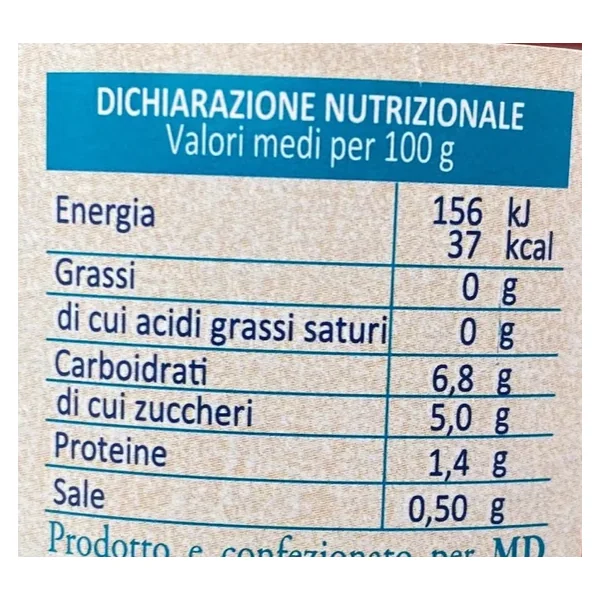
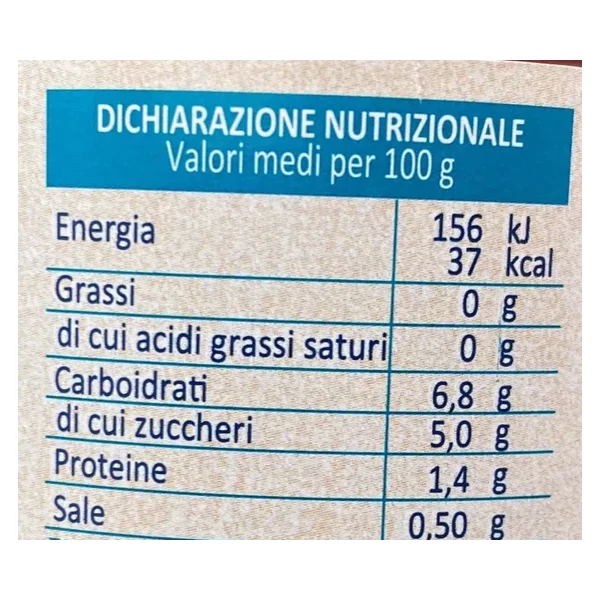
Marche private ricondotte alle linee APA
- prodotti con marchio della catena di provenienza delle foto ora a
  marchio APA, APA Selezione, Forno APA e Macelleria APA
- tolta dalle tabelle nutrizionali la dicitura del produttore per conto
  della catena
- documentazione senza riferimenti alla fonte delle foto

diff --git a/lib/mock/products.ts b/lib/mock/products.ts
@@ -37,7 +37,7 @@ export const products: Product[] = [
   product({
     id: "uova-bio-6pz",
     name: "Uova fresche biologiche",
-    brand: "MD",
+    brand: "APA",
     category: "latte-uova-yogurt",
     subcategory: "uova",
     format: "Confezione 4 uova",
@@ -101,7 +101,7 @@ export const products: Product[] = [
   product({
     id: "uova-contadino-10pz",
     name: "Uova fresche allevate a terra",
-    brand: "MD",
+    brand: "APA",
     category: "latte-uova-yogurt",
     subcategory: "uova",
     format: "Confezione 10 uova",
@@ -115,7 +115,7 @@ export const products: Product[] = [
   product({
     id: "yogurt-frutti-bosco",
     name: "Yogurt intero all'albicocca",
-    brand: "Malga Paradiso",
+    brand: "APA",
     category: "latte-uova-yogurt",
     subcategory: "yogurt",
     format: "Vasetto 150 g",
@@ -197,7 +197,7 @@ export const products: Product[] = [
   product({
     id: "petto-pollo-500g",
     name: "Petto di pollo a fette",
-    brand: "MD",
+    brand: "Macelleria APA",
     category: "carne-pesce",
     subcategory: "carne",
     format: "Vaschetta, circa 500 g",
@@ -248,7 +248,7 @@ export const products: Product[] = [
   product({
     id: "cornetti-6pz",
     name: "Croissant all'albicocca",
-    brand: "La Dolce",
+    brand: "Forno APA",
     category: "pane-pasticceria",
     subcategory: "dolci",
     format: "Confezione 10 pz",
@@ -293,7 +293,7 @@ export const products: Product[] = [
   product({
     id: "spaghetti-500g",
     name: "Spaghetti",
-    brand: "Buona Spesa",
+    brand: "APA",
     category: "dispensa",
     subcategory: "pasta",
     format: "Pacco 500 g",
@@ -306,7 +306,7 @@ export const products: Product[] = [
   product({
     id: "passata-pomodoro-700g",
     name: "Passata di pomodoro",
-    brand: "Lettere dall'Italia",
+    brand: "APA Selezione",
     category: "dispensa",
     subcategory: "conserve",
     format: "Bottiglia 700 g",
@@ -319,7 +319,7 @@ export const products: Product[] = [
   product({
     id: "olio-evo-1l",
     name: "Olio extravergine di oliva",
-    brand: "Fra Ulivo",
+    brand: "APA Selezione",
     category: "dispensa",
     subcategory: "conserve",
     format: "Bottiglia 1 L",
@@ -347,7 +347,7 @@ export const products: Product[] = [
   product({
     id: "gelato-pistacchio-500g",
     name: "Gelato alla stracciatella",
-    brand: "Lettere dall'Italia",
+    brand: "APA Selezione",
     category: "surgelati",
     subcategory: "gelati",
     format: "Vaschetta 400 g",
@@ -376,7 +376,7 @@ export const products: Product[] = [
   product({
     id: "spremuta-arancia-1l",
     name: "Succo di arancia",
-    brand: "Viviland",
+    brand: "APA",
     category: "bevande",
     subcategory: "succhi-bibite",
     format: "Brick 1 L",

diff --git a/docs/ARCHITETTURA.md b/docs/ARCHITETTURA.md
@@ -85,6 +85,6 @@ Obiettivo: sembrare il sito di una vera catena di supermercati siciliana, **non*
 
 - `public/img/prodotti/foto-<id>.webp` (600×600, fondo bianco) è la foto principale; `foto-<id>-<n>.webp` sono le
   foto aggiuntive (`Product.gallery`: valori nutrizionali, ingredienti, retro) mostrate nella galleria della scheda.
-- Provenienza, **solo per la demo**: packshot del catalogo MD su Everli e una foto fornita dal cliente (latte Parmalat);
+- Provenienza, **solo per la demo**: packshot da un catalogo online della GDO e una foto fornita dal cliente (latte Parmalat);
   Zymil, burro Brazzale e salmone da Open Food Facts (CC BY-SA 3.0, crediti nel footer). Prima di andare online vanno
   sostituite con foto di cui APA ha i diritti (fornitori o shooting interno).
